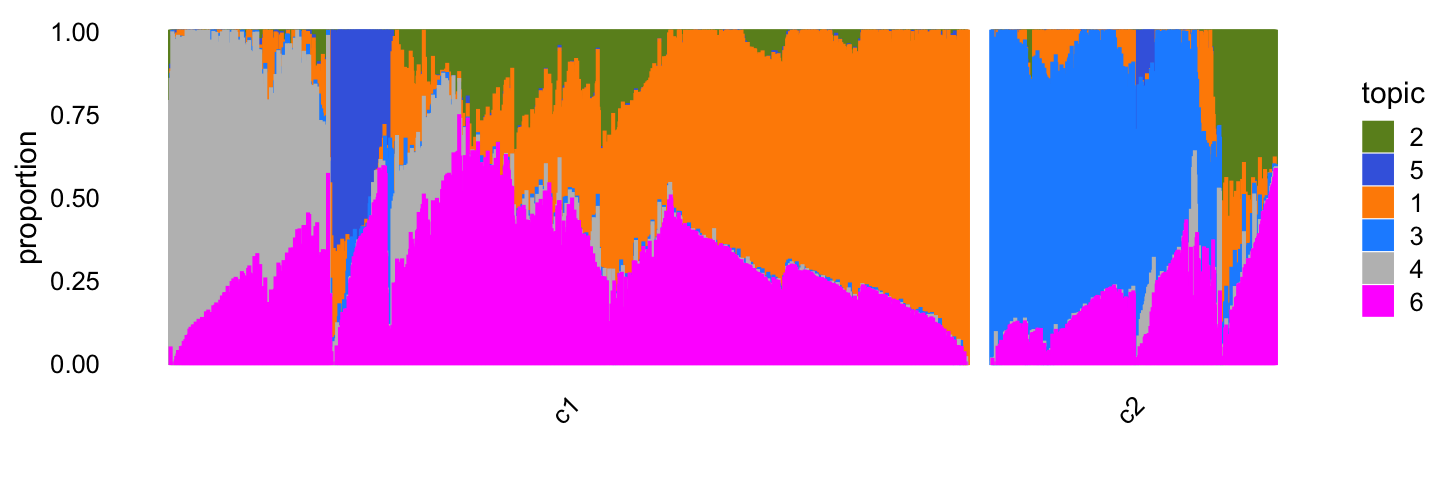
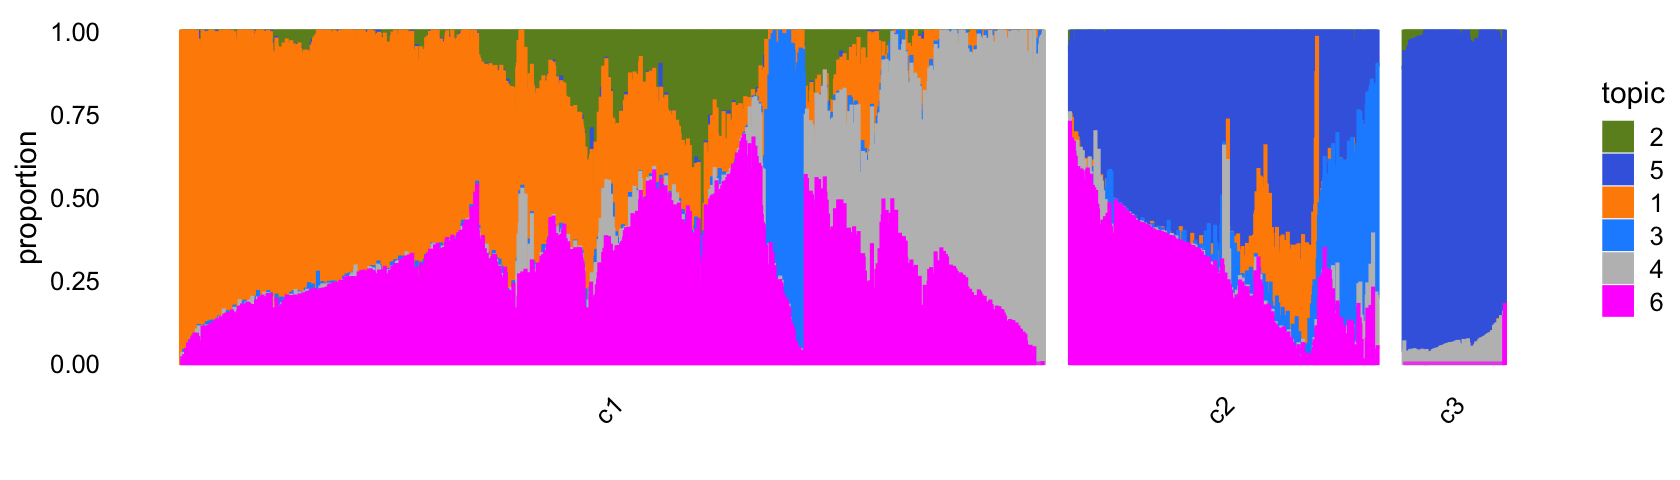
Build site.

diff --git a/docs/plots_pbmc.html b/docs/plots_pbmc.html
@@ -412,16 +412,16 @@ This reproducible <a href="http://rmarkdown.rstudio.com">R Markdown</a> analysis
 <div class="panel panel-default">
 <div class="panel-heading">
 <p class="panel-title">
-<a data-toggle="collapse" data-parent="#workflowr-checks" href="#strongRepositoryversionstrongahrefhttpsgithubcomstephenslabsinglecelltopicstree98888b2fae10880621bb3efd89cc53901190ce81targetblank98888b2a"> <span class="glyphicon glyphicon-ok text-success" aria-hidden="true"></span> <strong>Repository version:</strong> <a href="https://github.com/stephenslab/single-cell-topics/tree/98888b2fae10880621bb3efd89cc53901190ce81" target="_blank">98888b2</a> </a>
+<a data-toggle="collapse" data-parent="#workflowr-checks" href="#strongRepositoryversionstrongahrefhttpsgithubcomstephenslabsinglecelltopicstreecdca13ec3fb3f0a81510038deac7a7cb1c4910a0targetblankcdca13ea"> <span class="glyphicon glyphicon-ok text-success" aria-hidden="true"></span> <strong>Repository version:</strong> <a href="https://github.com/stephenslab/single-cell-topics/tree/cdca13ec3fb3f0a81510038deac7a7cb1c4910a0" target="_blank">cdca13e</a> </a>
 </p>
 </div>
[2 lines of base64/hex data omitted]
 <div class="panel-body">
 <p>
 Great! You are using Git for version control. Tracking code development and connecting the code version to the results is critical for reproducibility.
 </p>
 <p>
-The results in this page were generated with repository version <a href="https://github.com/stephenslab/single-cell-topics/tree/98888b2fae10880621bb3efd89cc53901190ce81" target="_blank">98888b2</a>. See the <em>Past versions</em> tab to see a history of the changes made to the R Markdown and HTML files.
+The results in this page were generated with repository version <a href="https://github.com/stephenslab/single-cell-topics/tree/cdca13ec3fb3f0a81510038deac7a7cb1c4910a0" target="_blank">cdca13e</a>. See the <em>Past versions</em> tab to see a history of the changes made to the R Markdown and HTML files.
 </p>
 <p>
 Note that you need to be careful to ensure that all relevant files for the analysis have been committed to Git prior to generating the results (you can use <code>wflow_publish</code> or <code>wflow_git_commit</code>). workflowr only checks the R Markdown file, but you know if there are other scripts or data files that it depends on. Below is the status of the Git repository when the results were generated:
@@ -478,6 +478,40 @@ Message
 </tr>
 </thead>
 <tbody>
+<tr>
+<td>
+Rmd
+</td>
+<td>
+<a href="https://github.com/stephenslab/single-cell-topics/blob/cdca13ec3fb3f0a81510038deac7a7cb1c4910a0/analysis/plots_pbmc.Rmd" target="_blank">cdca13e</a>
+</td>
+<td>
+Peter Carbonetto
+</td>
+<td>
+2020-08-21
+</td>
+<td>
+workflowr::wflow_publish(“plots_pbmc.Rmd”)
+</td>
+</tr>
+<tr>
+<td>
+html
+</td>
+<td>
+<a href="https://rawcdn.githack.com/stephenslab/single-cell-topics/216027a8630c038d35ff5149539a552cc8650fa7/docs/plots_pbmc.html" target="_blank">216027a</a>
+</td>
+<td>
+Peter Carbonetto
+</td>
+<td>
+2020-08-21
+</td>
+<td>
+Re-built plots_pbmc webpage with structure plots.
+</td>
+</tr>
 <tr>
 <td>
 Rmd
@@ -829,8 +863,8 @@ Peter Carbonetto
 x &lt;- rep(&quot;c1&quot;,n)
 pc3 &lt;- pca_68k[,&quot;PC3&quot;]
 pc4 &lt;- pca_68k[,&quot;PC4&quot;]
-x[pc4 &lt; -0.13 | pc3/2 - 0.17 &gt; pc4] &lt;- &quot;c2&quot;
-x[pc4 &lt; -0.75] &lt;- &quot;c3&quot;
+x[pc4 &gt; 0.13 | pc3/1.9 - 0.17 &gt; -pc4] &lt;- &quot;c2&quot;
+x[pc4 &gt; 0.75] &lt;- &quot;c3&quot;
 samples_68k$cluster &lt;- factor(x)
 pbmc_68k_cluster_colors &lt;- c(&quot;cornflowerblue&quot;,&quot;darkorange&quot;,&quot;firebrick&quot;)
 p2 &lt;- pca_plot_with_labels(fit_68k,c(&quot;PC3&quot;,&quot;PC4&quot;),factor(x),
@@ -862,6 +896,17 @@ Date
 <tbody>
 <tr>
 <td>
+<a href="https://github.com/stephenslab/single-cell-topics/blob/216027a8630c038d35ff5149539a552cc8650fa7/docs/figure/plots_pbmc.Rmd/pbmc-68k-clustering-2-1.png" target="_blank">216027a</a>
+</td>
+<td>
+Peter Carbonetto
+</td>
+<td>
+2020-08-21
+</td>
+</tr>
+<tr>
+<td>
 <a href="https://github.com/stephenslab/single-cell-topics/blob/6d3d7e4e855a46f2b154a459db16dd9fbaa58ccf/docs/figure/plots_pbmc.Rmd/pbmc-68k-clustering-2-1.png" target="_blank">6d3d7e4</a>
 </td>
 <td>
@@ -878,8 +923,8 @@ Peter Carbonetto
 <p>The vast majority of the cells are in the first (blue) cluster:</p>
 <pre class="r"><code>table(samples_68k$cluster)
 # 
-#    c1    c2 
-# 63072  5507</code></pre>
+#    c1    c2    c3 
+# 63408  5006   165</code></pre>
 <p><strong>TO DO:</strong> Add text here.</p>
 <pre class="r"><code>set.seed(1)
 pbmc_purified_topics       &lt;- c(2,5,1,3,4,6)
@@ -894,12 +939,49 @@ p3 &lt;- structure_plot(fit2,grouping = samples_purified[rows,&quot;cluster&quot
                      colors = pbmc_purified_topic_colors[pbmc_purified_topics],
                      gap = 40,num_threads = 4,verbose = FALSE)
 print(p3)</code></pre>
-<p><img src="figure/plots_pbmc.Rmd/pbmc-purified-structure-plot-1.png" width="720" style="display: block; margin: auto;" /></p>
+<p><img src="figure/plots_pbmc.Rmd/pbmc-purified-structure-plot-1.png" width="840" style="display: block; margin: auto;" /></p>
+<p>
+<button type="button" class="btn btn-default btn-xs btn-workflowr btn-workflowr-fig" data-toggle="collapse" data-target="#fig-pbmc-purified-structure-plot-1">
+Past versions of pbmc-purified-structure-plot-1.png
+</button>
+</p>
+<div id="fig-pbmc-purified-structure-plot-1" class="collapse">
+<div class="table-responsive">
+<table class="table table-condensed table-hover">
+<thead>
+<tr>
+<th>
+Version
+</th>
+<th>
+Author
+</th>
+<th>
+Date
+</th>
+</tr>
+</thead>
+<tbody>
+<tr>
+<td>
+<a href="https://github.com/stephenslab/single-cell-topics/blob/216027a8630c038d35ff5149539a552cc8650fa7/docs/figure/plots_pbmc.Rmd/pbmc-purified-structure-plot-1.png" target="_blank">216027a</a>
+</td>
+<td>
+Peter Carbonetto
+</td>
+<td>
+2020-08-21
+</td>
+</tr>
+</tbody>
+</table>
+</div>
+</div>
 <p><strong>TO DO:</strong> Add text here.</p>
-<pre class="r"><code>pbmc_68k_topics       &lt;- c(2,5,1,3,4,6)
+<pre class="r"><code>set.seed(1)
+pbmc_68k_topics       &lt;- c(2,5,1,3,4,6)
 pbmc_68k_topic_colors &lt;- c(&quot;darkorange&quot;,&quot;olivedrab&quot;,&quot;dodgerblue&quot;,
                            &quot;gray&quot;,&quot;royalblue&quot;,&quot;magenta&quot;)
-set.seed(1)
 rows &lt;- sort(c(sample(which(samples_68k$cluster == &quot;c1&quot;),1400),
                sample(which(samples_68k$cluster == &quot;c2&quot;),500),
                which(samples_68k$cluster == &quot;c3&quot;)))
@@ -909,7 +991,44 @@ p4 &lt;- structure_plot(fit2,grouping = samples_68k[rows,&quot;cluster&quot;],
                      colors = pbmc_68k_topic_colors[pbmc_68k_topics],
                      gap = 40,num_threads = 4,verbose = FALSE)
 print(p4)</code></pre>
-<p><img src="figure/plots_pbmc.Rmd/pbmc-68k-structure-plot-1.png" width="720" style="display: block; margin: auto;" /></p>
+<p><img src="figure/plots_pbmc.Rmd/pbmc-68k-structure-plot-1.png" width="840" style="display: block; margin: auto;" /></p>
+<p>
+<button type="button" class="btn btn-default btn-xs btn-workflowr btn-workflowr-fig" data-toggle="collapse" data-target="#fig-pbmc-68k-structure-plot-1">
+Past versions of pbmc-68k-structure-plot-1.png
+</button>
+</p>
+<div id="fig-pbmc-68k-structure-plot-1" class="collapse">
+<div class="table-responsive">
+<table class="table table-condensed table-hover">
+<thead>
+<tr>
+<th>
+Version
+</th>
+<th>
+Author
+</th>
+<th>
+Date
+</th>
+</tr>
+</thead>
+<tbody>
+<tr>
+<td>
+<a href="https://github.com/stephenslab/single-cell-topics/blob/216027a8630c038d35ff5149539a552cc8650fa7/docs/figure/plots_pbmc.Rmd/pbmc-68k-structure-plot-1.png" target="_blank">216027a</a>
+</td>
+<td>
+Peter Carbonetto
+</td>
+<td>
+2020-08-21
+</td>
+</tr>
+</tbody>
+</table>
+</div>
+</div>
 <p>Comparison to Zheng et al (2017) cell-type labeling of the FACS-purified PBMC data:</p>
 <pre class="r"><code>purified_celltype_colors &lt;-
   c(&quot;dodgerblue&quot;,  # CD19+ B
